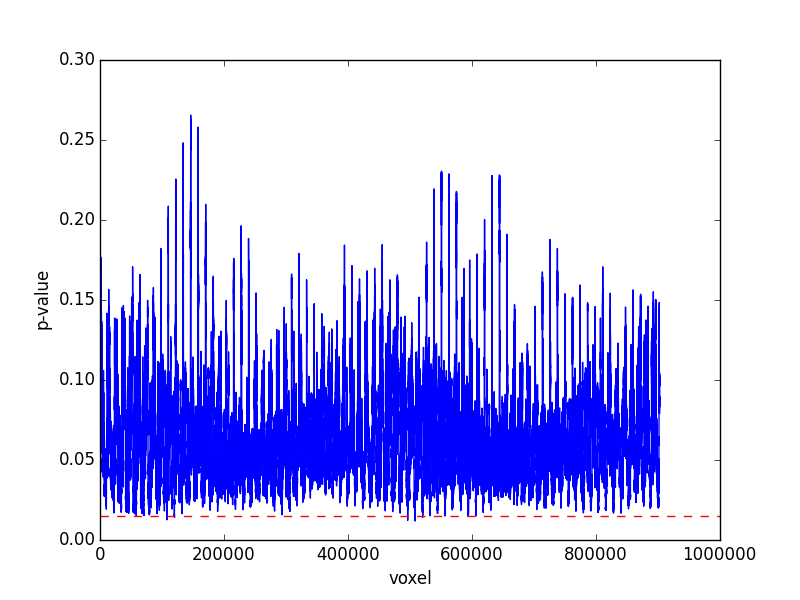
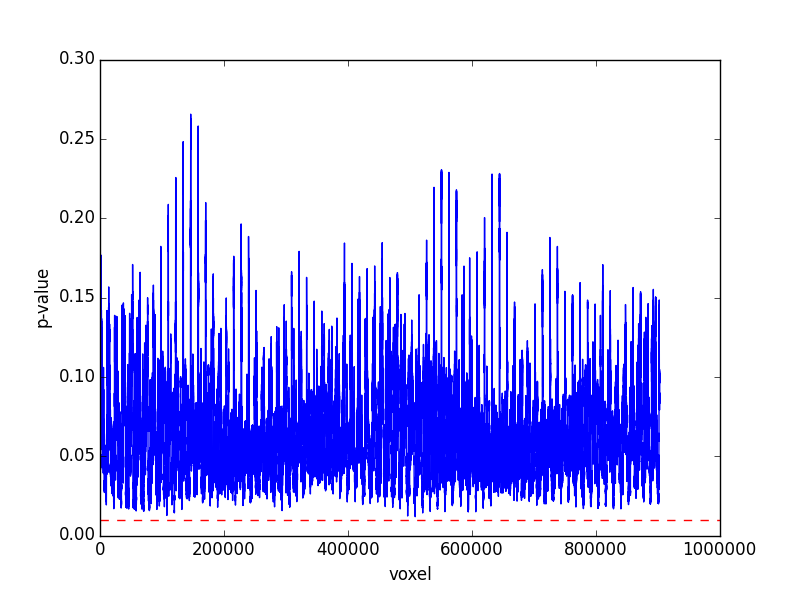
update smoothing and new p-map and beta image

diff --git a/code/utils/linear_modeling/block_linear_modeling_script.py b/code/utils/linear_modeling/block_linear_modeling_script.py
@@ -1,0 +1,76 @@
+from __future__ import division
+import numpy as np
+import numpy.linalg as npl
+import matplotlib.pyplot as plt
+import nibabel as nib
+from scipy.stats import t as t_dist
+from nilearn import image
+from nilearn.plotting import plot_stat_map
+import linear_modeling
+from sys import argv
+
+"""
+set the directory to project-iota and run below command on terminal:
+python block_linear_modeling_script.py task001_run001/filtered_func_data_mni task001_run001
+"""
+f1 = argv[1] # filtered_func_data_mni
+f2 = argv[2] # task001_run001
+
+# Load the image as an image object
+img = nib.load('../../../data/sub001/BOLD/' + f1 + '.nii.gz')
+# Load the image data as an array
+# Drop the first 4 3D volumes from the array
+data = img.get_data()[..., 4:]
+# Load the pre-written convolved time course
+start = np.loadtxt('../../../data/convo/' + f2 + '_cond001.txt')[4:]
+end = np.loadtxt('../../../data/convo/' + f2 + '_cond004.txt')[4:]
+convo = np.loadtxt('../../../data/convo/' + f2 + '_cond005.txt')[4:]
+
+# Building design X matrix
+design = np.ones((len(convo), 4))
+design[:, 1] = start
+design[:, 2] = end
+design[:, 3] = convo
+
+# reshape data to 2D
+vol_shape, n_time = data.shape[:-1], data.shape[-1]
+shape_2d = (n_time, np.product(vol_shape)) # (133, 902629)
+data_2d = np.reshape(data, shape_2d)
+
+# Smoothing raw data set
+mean_data = np.mean(data, -1)
+plt.hist(np.ravel(mean_data), bins=100)
+mask = mean_data > 8000
+smooth_data = linear_modeling.smoothing(data, [2,2,2,0], mask)
+
+# Block linear regression
+betas_hat, s2, df = linear_modeling.beta_est(data_2d, design) # (4, 902629)
+np.savetxt('../../../data/beta/' + f2 + '_betas_hat_block.txt', betas_hat.T, newline='\r\n')
+
+# T-test on null hypothesis, assume only input variance of beta3
+t_value, p_value = linear_modeling.t_stat(design, [0,0,0,1], betas_hat, s2, df)
+
+# P value for single voxel
+plt.figure(0)
+plt.plot(range(p_value.shape[1]), p_value[0,:])
+plt.xlabel('voxel')
+plt.ylabel('p-value')
+line = plt.axhline(0.01, ls='--', color = 'red')
+plt.savefig('../../../data/beta/' + f2 + '_p_value_block.png')
+np.savetxt('../../../data/beta/' + f2 + '_p-value_block.txt', p_value, newline='\r\n')
+
+# T value for single voxel
+plt.figure(1)
+plt.plot(range(p_value.shape[1]), t_value[0,:])
+plt.xlabel('voxel')
+plt.ylabel('t-value')
+plt.savefig('../../../data/beta/' + f2 + '_T_value_block.png')
+np.savetxt('../../../data/beta/' + f2 + '_T-value_block.txt', t_value, newline='\r\n')
+
+# active_voxel = range(p_value.shape[1])[p_value <= 0.015]
+# np.savetxt('../../../data/beta/' + f2 + '_active_voxel.txt', active_voxel, newline='\r\n')
+
+# generate p-map
+p_values_3d = p_value.reshape(vol_shape)
+linear_modeling.p_map(f1, p_values_3d)
+plt.show()

diff --git a/code/utils/linear_modeling/linear_modeling.py b/code/utils/linear_modeling/linear_modeling.py
@@ -4,6 +4,9 @@ import numpy.linalg as npl
 import matplotlib.pyplot as plt
 import nibabel as nib
 from scipy.stats import t as t_dist
+from nilearn import image
+from nilearn.plotting import plot_stat_map
+from scipy.ndimage import gaussian_filter
 
 """ Linear_modeling.py
 
@@ -13,7 +16,6 @@ with hrf, along with a few linear drift terms.
     This is OLS estimation; we assume the errors to have independent and
 identical normal distributions around zero for each i in e_i (i.i.d).
 """
-
 
 def beta_est(y, X):
     """
@@ -57,7 +59,6 @@ def beta_est(y, X):
 
     return beta, MRSS, df
 
-
 def t_stat(X, c, beta, MRSS, df):
     """
     parameters
@@ -91,35 +92,43 @@ def t_stat(X, c, beta, MRSS, df):
 
     return t, p
 
-
-def reshape(mask, vol_shape, arr):
+def p_map(data, p_values_3d):
     """
-    We can use 3D mask to index into 4D dataset.
-    This selects all the voxel time-courses for voxels within the brain
-    (as defined by the mask).
+    Generate three different views of p-map to show the voxels
+    where is significantly active
 
-    Parameters
+    parameters
     ----------
-    mask: 3D array
-        The resulting mask of using mean volumes over time.
-    vol_shape: tuple
-        3D shape of voxels.
-    arr: 2D array (int x n_vols)
-        array to be reshaped.
-    Returns
-    -------
-    vol_reshape
-    masked voxel time-course
-
-    Intermediate step example for demonstrate:
-
-    To reshape beta:
-    b_vols = np.zeros(vol_shape + (beta.shape[0],))
-    b_vols[in_brain_mask, :] = beta.T
+    data: string contains task#_run#/filtered_func_data_mni
+    p_value_3d: 3D array of p_value
     """
-    vols_reshape = np.zeros(vol_shape + (arr.shape[0],))
-    vols_reshape[mask, :] = arr.T
+    fmri_img = image.smooth_img('../../../data/sub001/BOLD/' + data + '.nii.gz', fwhm = 6)
+    mean_img = image.mean_img(fmri_img)
 
-    return vols_reshape
+    log_p_values = -np.log10(p_values_3d)
+    log_p_values[np.isnan(log_p_values)] = 0.
+    log_p_values[log_p_values > 10.] = 10.
+    log_p_values[log_p_values < -np.log10(0.01)] = 0
+    plot_stat_map(nib.Nifti1Image(log_p_values, fmri_img.get_affine()),
+                  mean_img, title="p-values", annotate=False, colorbar=True)
+    plt.show()
 
+def smoothing(data, smoothing_dim, mask):
+    """
+    Smooth by number of voxel SD in all three spatial dimissions
+    
+    parameters
+    ----------
+    data: 4D array of raw data
+    smoothing_dim: list of which veoxels are going to smooth
+    
+    Returns
+    ----------
+    Y: smoothing raw data
+    """
+    smooth_data = gaussian_filter(data, smoothing_dim)
+    Y = smooth_data[mask].T
 
+    return Y
+
+    
